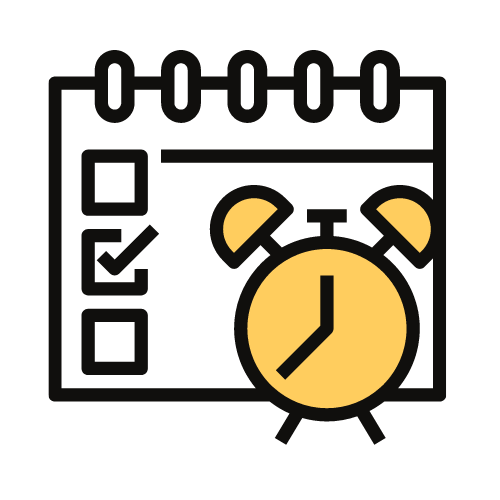
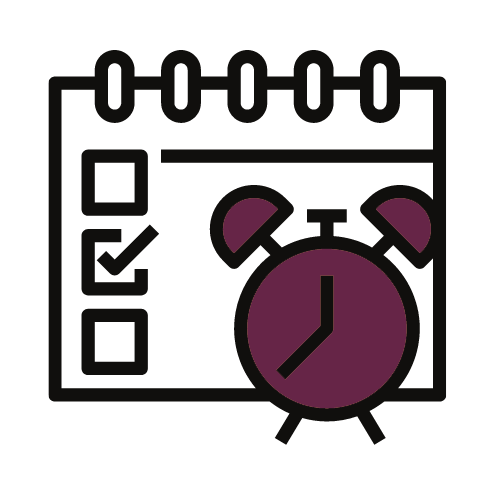
Header updates. Image update

Changed region(s): [[0.48, 0.48, 0.81, 0.84], [0.42, 0.39, 0.57, 0.51], [0.75, 0.39, 0.87, 0.51]]

diff --git a/index.html b/index.html
@@ -5,17 +5,17 @@
     <meta charset="UTF-8">
     <meta content="width=device-width, initial-scale=1" name="viewport" />
 
-   
+
     <link rel="preconnect" href="https://fonts.gstatic.com">
     <link rel="stylesheet" href="style.css">
-    <link rel="stylesheet" href="style-aux.css">
+    <link rel="stylesheet" href="style-aatur.css">
     <meta property="og:title" content="Advanced Approaches to UX Research" />
     <meta property="og:type" content="website" />
-    <meta property="og:url" content="https:// aux.uie.com" />
+    <meta property="og:url" content="https://aatur.uie.com" />
     <title>Advanced Approaches to UX Research - Drive Strategy • Gain Influence • Be Innovative.</title>
     <meta name="description" content="Advanced Approaches to UX Research - Drive Strategy • Gain Influence • Be Innovative">
-    <meta property="og:image" content="https://aux.uie.com/images-aatur/aux-og.png" />
-    <link rel="shortcut icon" href="images-aatur/favicon.png" type="image/x-icon" /> 
+    <meta property="og:image" content="https://aatur.uie.com/images-aatur/aatur-og.png" />
+    <link rel="shortcut icon" href="images-aatur/favicon.png" type="image/x-icon" />
     <meta property="og:site_name" content="Advanced Approaches to UX Research">
     <meta property="og:description"
         content="Advanced Approaches to UX Research - Drive Strategy • Gain Influence • Be Innovative.">
@@ -70,7 +70,7 @@
                     </h2>
                 </div>
                 <div class="sec-il">
-                    <img src="images-aatur/agile-people.png" class="img-resp" alt="Person holding flag that says Agile.Line art. ">
+                    <img src="images-aatur/imgf.png" class="img-resp" alt="Person holding flag that says Agile.Line art. ">
                 </div>
             </div>
         </div>
@@ -82,7 +82,7 @@
         <div class="container pad-d-2 ">
             <div class="grid26">
                 <div class="sec-il">
-                    <img src="images-aatur/man-on-pc.png" class="img-resp" alt="Person working on a computer next to a cup of coffee. Line art. 
+                    <img src="images-aatur/imgs.png" class="img-resp" alt="Person working on a computer next to a cup of coffee. Line art.
                     ">
                 </div>
                 <div class="sec-desc">
@@ -105,7 +105,7 @@
                     </h2>
                 </div>
                 <div class="sec-il">
-                    <img src="images-aatur/agile-platform.png" class="img-resp" alt=" Lightbulb over the book. Line art. ">
+                    <img src="images-aatur/imgl.png" class="img-resp" alt=" Lightbulb over the book. Line art. ">
                 </div>
             </div>
         </div>
@@ -175,7 +175,7 @@
                 <div class="middleTextWall">
                     <div class="text-wall " style="text-align: center;">
                         <p class="header-text-shadow h3 pad-top-5 ">Drive Strategy • Gain Influence • Be Innovative <br>
-                            Advanced Approaches to UX Research 
+                            Advanced Approaches to UX Research
                             </p>
 
                         <p>
@@ -305,9 +305,31 @@
     </section>
 
 
+    <section id="text-wall">
+        <div class="text-white yellow-bg">
+            <div class="container grid26">
+                <div class="middleTextWall">
+                    <div class="text-wall " style="text-align: center;">
+                        <p class="header-text-shadow h3 pad-top-5">Drive Strategy • Gain Influence • Be Innovative <br>
+                            Advanced Approaches to UX Research  </p>
+
+                        <p>
+                        <div class="head-button text-center pad-bottom-2">
+                            <a style="display: inline-block;" class="cta-c"
+                                href="https://leaders.centercentre.com/share/VEleVgSB31cZJkP0?utm_source=manua">Join
+                                Now</a>
+                        </div>
+                        </p>
+                    </div>
+
+                </div>
+            </div>
+        </div>
+    </section>
+
     <section class="gray-bg">
         <div class="container pad-d-5 pad-bottom-5 quotedArticleLeft">
-            <div class="grid26"> 
+            <div class="grid26">
                 <div class="sec-desc">
                     <h2 id="let-jared-spool-be-your-guide" class="h2">Led by Jared Spool, Maker&nbsp;of&nbsp;Awesomeness.</h2>
                     <p>Everything you learn in this 5-day Intensive comes directly from Jared’s years of working across
@@ -334,28 +356,6 @@
         </div>
     </section>
 
-
-    <section id="text-wall">
-        <div class="text-white yellow-bg">
-            <div class="container grid26">
-                <div class="middleTextWall">
-                    <div class="text-wall " style="text-align: center;">
-                        <p class="header-text-shadow h3 pad-top-5">Drive Strategy • Gain Influence • Be Innovative <br>
-                            Advanced Approaches to UX Research  </p>
-
-                        <p>
-                        <div class="head-button text-center pad-bottom-2">
-                            <a style="display: inline-block;" class="cta-c"
-                                href="https://leaders.centercentre.com/share/VEleVgSB31cZJkP0?utm_source=manua">Join
-                                Now</a>
-                        </div>
-                        </p>
-                    </div>
-
-                </div>
-            </div>
-        </div>
-    </section>
 
 
 

diff --git a/style-aatur.css b/style-aatur.css
@@ -57,7 +57,7 @@ $BACKGROUNDS
 ----------------------------
 */
 .img-bg {
-    background: url("images-aatur/bg-aux.png") no-repeat;
+    background: url("images-aatur/bg-horse-1000.png") no-repeat;
     background-size: cover;
 }
 .img-bg-wide {
@@ -186,7 +186,7 @@ $BACKGROUNDS
     font-family: "Source Sans Pro", "Open Sans", "Helvetica Neue", Helvetica, Arial, sans-serif;
     color: #ffffff !important;
     border-radius: 0;
-    background-color: var(--black);
+    background-color: var(--darkPurple);
     text-decoration: none;
     transition: background-color 0.24s ease;
     display: block;
@@ -877,11 +877,11 @@ $BACKGROUNDS
 
 
 @media(max-device-width: 800px) {
-    .img-bg {
+    /* .img-bg {
         background-color: #FFCD5E !important;
         background: none;
         background-size: cover;
-    }
+    } */
 
     .lead-wraper {
         padding-top: 30px;

diff --git a/style.css b/style.css
@@ -35,7 +35,7 @@ I'll never try to be smarter with my CSS coding styles than Harry -> https://css
     --darkGray: #a3a3a3;
 
     --black: #2c2c2c;
-    --bgMain: #FFCD5E;
+    --bgMain: #662547;
     --bigBorderColor: #ffffff;
     /* --accent: (var(brightRed)); */
 }
@@ -1307,4 +1307,4 @@ START -- NEW FOOTER
     border-top: 1px solid rgb(115 115 115);
 }
 
- 
+
